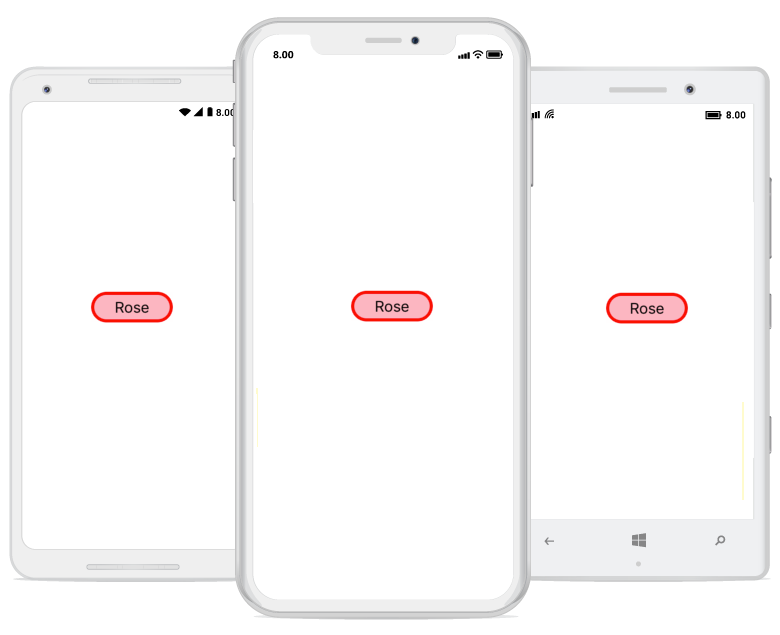
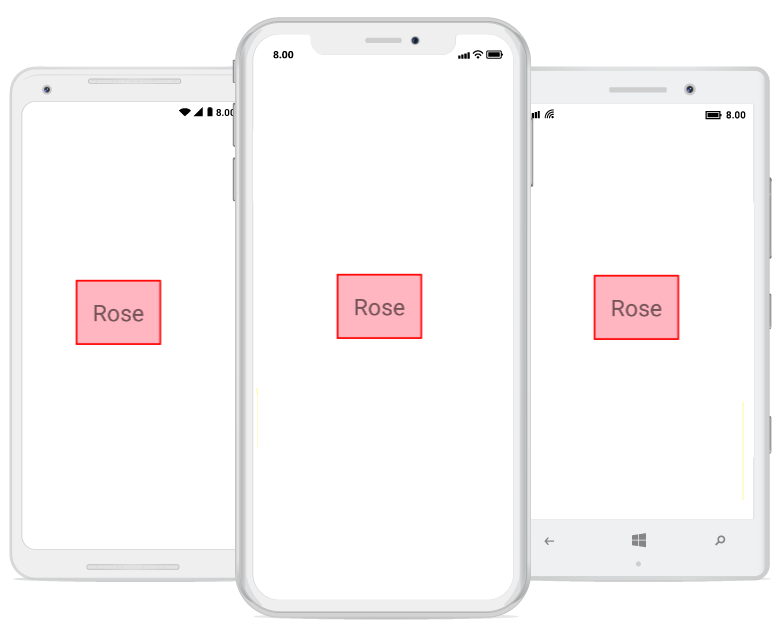
Moved the border control UG to development

Changed region(s): [[0.0923, 0.4189, 0.2462, 0.5685], [0.7385, 0.4189, 0.8923, 0.5386], [0.4308, 0.4189, 0.5538, 0.5386]]

diff --git a/Xamarin/SfBorder/Getting-started.md b/Xamarin/SfBorder/Getting-started.md
@@ -11,42 +11,20 @@ documentation: ug
 
 This section provides an overview for working with the SfBorder control for Xamarin.Forms and explains the entire process of creating a real-world application.
 
-## Assembly deployment
-
-After installing Essential Studio for Xamarin.Forms, find all the required assemblies in the installation folders: {Syncfusion Essential Studio Installed location}\Essential Studio\{{ site.releaseversion }}\Xamarin\lib.
-
-E.g.: C:\Program Files (x86)\Syncfusion\Essential Studio\{{ site.releaseversion }}\Xamarin\lib.
-
-N> Assemblies can be found in an unzipped package location in Mac.
-
-## NuGet configuration
-
-To install the required NuGet for the SfBorder control in an application, configure the NuGet packages of Syncfusion components.
-
-Refer to the following KB to configure the NuGet packages of the Syncfusion components:
-
-[How to configure package source and install Syncfusion NuGet packages in an existing project?](https://www.syncfusion.com/kb/7441/how-to-configure-package-source-and-install-syncfusion-nuget-packages-in-an-existing-project)
-
-The following NuGet package should be installed to use the SfBorder control in an application.
-
-<table>
-<tr>
-<th> Project </th>
-<th> Required package </th>
-</tr>
-<tr>
-<td> Xamarin.Forms </td>
-<td> Syncfusion.Xamarin.Core</td>
-</tr>
-</table>
-
 ### Adding SfBorder reference
 
-Syncfusion components for Xamarin.Forms are available in [nuget.org](https://www.nuget.org/). To add SfBorder to your project, open the NuGet package manager in Visual Studio, search for [Syncfusion.Xamarin.Core](https://www.nuget.org/packages/Syncfusion.Xamarin.Core/), and then install it.
+Syncfusion components for Xamarin.Forms are available in [nuget.org](https://www.nuget.org). To add the text input layout control to your project, open the NuGet package manager in Visual Studio, search for [Syncfusion.Xamarin.Core](https://www.nuget.org/packages/Syncfusion.Xamarin.Core), and then install it.
 
-To know more about obtaining our components, refer to these links for [Mac](https://help.syncfusion.com/xamarin/introduction/download-and-installation/mac) and [Windows](https://help.syncfusion.com/xamarin/introduction/download-and-installation/windows). If you prefer to manually refer the assemblies instead of NuGet, refer to this [documentation](https://help.syncfusion.com/xamarin/introduction/control-dependencies#sfborder) to know about the dependent assemblies required for adding for SfBorder.
+![Xamarin Forms SfBorder Nuget reference](images/Xamarin_Forms_Border_Nuget.png)
 
-## Launching SfBorder on each platform
+To learn more about obtaining our components, refer to these links for [Mac](https://help.syncfusion.com/xamarin/introduction/download-and-installation/mac) and [Windows](https://help.syncfusion.com/xamarin/introduction/download-and-installation/windows).
+
+
+N> Install the same version of the core NuGet in all the projects. The text input layout control will be available in core NuGet from v16.3.0.x onwards.
+
+I> From v16.2.0.x, you have to include a license key in your project if you reference Syncfusion assemblies from the trial setup or NuGet feed. Please refer to this [documentation](https://help.syncfusion.com/common/essential-studio/licensing/license-key) to learn about registering Syncfusion license key in your Xamarin applications and using our components.
+
+## Launching an application on each platform with SfBorder.
 
 To use the SfBorder control inside an application, each platform application must initialize the SfBorder renderer. This initialization step varies from platform to platform and is discussed in the following sections:
 
@@ -108,40 +86,46 @@ protected override void OnLaunched(LaunchActivatedEventArgs e)
 
 {% endhighlight %}
 
-## Creating a project
+## Creating SfBorder control
 
-Create a new BlankApp (Xamarin.Forms.Portable) application in Xamarin Studio or Visual Studio for Xamarin.Forms.
+The `SfBorder` control is configured entirely in C# code or in XAML markup. The following steps explain how to create a `SfBorder` and configure its elements.
 
-1. Add the required assembly references to the pcl and renderer projects as discussed in the [Assembly deployment](#assembly-deployment) section.
+### Adding namespace for referred assemblies
 
-2. Import the SfBorder control namespace as `xmlns:border="clr-namespace:Syncfusion.XForms.Border;assembly=Syncfusion.Core.XForms"` in XAML page.
+{% tabs %} 
 
-3. Set the SfBorder control as content to the ContentPage.
+{% highlight xaml %} 
+
+xmlns:border="clr-namespace:Syncfusion.XForms.Border;assembly=Syncfusion.Core.XForms" 
+
+{% endhighlight %}
+
+{% highlight C# %} 
+
+using Syncfusion.XForms.Border; 
+
+{% endhighlight %}
+
+{% endtabs %}
+
+### Add the SfBorder control as the content of ContentPage.
 
 {% tabs %}
 {% highlight xaml %}
 
-<StackLayout>     
 <Grid>
-<Grid.RowDefinitions>
-<RowDefinition Height="70"/>
-</Grid.RowDefinitions>
-<border:SfBorder x:Name="border" Grid.Row="0" WidthRequest="80"
- HeightRequest="30"
- CornerRadius="20"
- VerticalOptions="Start"
- HorizontalOptions="Center"
- BorderColor="Red"
- BorderWidth="3">
-<border:SfBorder.Content>
-<Label Text="Rose" 
- TextColor="Black" BackgroundColor="#ffb6c1"
- Font="15" WidthRequest="80" HeightRequest="30" VerticalOptions="Center"
- HorizontalOptions="Center" HorizontalTextAlignment="Center" VerticalTextAlignment="Center"/>
-</border:SfBorder.Content>
+<border:SfBorder 
+   BorderColor="Red"
+   BackgroundColor="#ffb6c1" 
+   HorizontalOptions="Center" 
+   VerticalOptions="Center"
+   BorderWidth="3">
+<Label 
+  Text="Rose" 
+  Margin="10" 
+  Font="15"  />
 </border:SfBorder>
 </Grid>
-</StackLayout>
 
 {% endhighlight %}
 {% highlight c# %}
@@ -157,34 +141,23 @@ namespace BorderGettingStarted
         public MainPage()
         {
             InitializeComponent();
-            StackLayout stack = new StackLayout();
-            Grid mainGrid = new Grid();
-            RowDefinition firstRow = new RowDefinition();
-            firstRow.Height = 70;
-            mainGrid.RowDefinitions.Add(firstRow);
             
+            Grid mainGrid = new Grid();
+            
+			// Create Border control
             SfBorder border = new SfBorder();
-            border.HeightRequest = 30;
-            border.CornerRadius = 20;
-            border.VerticalOptions = LayoutOptions.Start;
+            border.VerticalOptions = LayoutOptions.Center;
             border.HorizontalOptions = LayoutOptions.Center;
             border.BorderColor = Color.Red;
-            border.BorderWidth = 3;
-            Grid.SetRow(border, 0);
+			border.BackgroundColor = Color.FromHex("#ffb6c1");
+			
+			//Create Label control
             Label label = new Label();
             label.Text = "Rose";
-            label.TextColor = Color.Black;
-            label.BackgroundColor = Color.FromHex("#ffb6c1");
             label.FontSize = 15;
-            label.WidthRequest = 80;
-            label.HeightRequest = 30;
-            label.VerticalOptions = LayoutOptions.Center;
-            label.HorizontalOptions = LayoutOptions.Center;
-            label.HorizontalTextAlignment = TextAlignment.Center;
-            label.VerticalTextAlignment = TextAlignment.Center;
+            
             border.Content = label;
             mainGrid.Children.Add(border);
-            stack.Children.Add(mainGrid);
             this.Content = stack;
         }
     }

diff --git a/Xamarin/SfBorder/Customization.md b/Xamarin/SfBorder/Customization.md
@@ -18,13 +18,23 @@ You can customize the color of the border using the `BorderColor` property.
 {% tabs %}
 {% highlight xaml %}
 
-<border:SfBorder x:Name="border" BorderColor = "Red"/>
+<border:SfBorder x:Name="border" BorderColor = "Red"  CornerRadius="20" BorderWidth="3">
+ <Label Text="James Williamson" 
+ TextColor="Black"/>
+</border:SfBorder>
 
 {% endhighlight %}
 {% highlight c# %}
 
 SfBorder border = new SfBorder();
+border.CornerRadius = 20;
 border.BorderColor = Color.Red;
+border.BorderWidth = 3;
+Label label = new Label();
+label.Text = "James Williamson";
+label.TextColor = Color.Black;
+border.Content = label;
+this.Content = border;
 
 {% endhighlight %}
 {% endtabs %}
@@ -38,13 +48,24 @@ The background color of the border control can be customized using the `Backgrou
 {% tabs %}
 {% highlight xaml %}
 
-<border:SfBorder x:Name="border" BackgroundColor = "Green"/>
+<border:SfBorder x:Name="border" BorderColor = "Red" BackgroundColor= "Green" CornerRadius="20" BorderWidth="3">
+ <Label Text="James Williamson" 
+ TextColor="Black"/>
+</border:SfBorder>
 
 {% endhighlight %}
 {% highlight c# %}
 
 SfBorder border = new SfBorder();
+border.CornerRadius = 20;
+border.BorderColor = Color.Red;
+border.BorderWidth = 3;
+Label label = new Label();
+label.Text = "James Williamson";
+label.TextColor = Color.Black;
+border.Content = label;
 border.BackgroundColor = Color.Green;
+this.Content = border;
 
 {% endhighlight %}
 {% endtabs %}
@@ -58,13 +79,24 @@ You can customize the thickness of the border using the `BorderWidth` property.
 {% tabs %}
 {% highlight xaml %}
 
-<border:SfBorder x:Name="border" BorderWidth = "12"/>
+<border:SfBorder x:Name="border" BorderColor = "Red" CornerRadius="20" BorderWidth="12">
+ <Label Text="James Williamson" 
+ TextColor="Black"/>
+</border:SfBorder>
 
 {% endhighlight %}
 {% highlight c# %}
 
 SfBorder border = new SfBorder();
+border.CornerRadius = 20;
+border.BorderColor = Color.Red;
 border.BorderWidth = 12;
+Label label = new Label();
+label.Text = "James Williamson";
+label.TextColor = Color.Black;
+border.Content = label;
+this.Content = border;
+
 
 {% endhighlight %}
 {% endtabs %}
@@ -78,13 +110,23 @@ You can customize the corner radius of the border on four sides using the `Corne
 {% tabs %}
 {% highlight xaml %}
 
-<border:SfBorder x:Name="border" CornerRadius="0,10,10,0"/>
+<border:SfBorder x:Name="border" BorderColor = "Red" CornerRadius="0,10,10,0" BorderWidth="12">
+ <Label Text="James Williamson" 
+ TextColor="Black"/>
+</border:SfBorder>
 
 {% endhighlight %}
 {% highlight c# %}
 
 SfBorder border = new SfBorder();
 border.CornerRadius =  new Thickness (0,10,10,0);
+border.BorderColor = Color.Red;
+border.BorderWidth = 12;
+Label label = new Label();
+label.Text = "James Williamson";
+label.TextColor = Color.Black;
+border.Content = label;
+this.Content = border;
 
 {% endhighlight %}
 {% endtabs %}

diff --git a/Xamarin/SfBorder/Overview.md b/Xamarin/SfBorder/Overview.md
@@ -9,9 +9,7 @@ documentation : ug
 
 # Overview
 
-The new Border control is a container control that allows you to apply borders, backgrounds, border widths, and corner radii.
-
-![border](images/Xamarin_Forms_Overview.png)
+The Xamarin.Forms Border control is a container control that allows you to apply borders, backgrounds, border width, and corner radii
 
 ## Key Features
 
@@ -20,3 +18,5 @@ The new Border control is a container control that allows you to apply borders, 
 * Implement a circular image.
 
 * Customize all the edges with different corner radii.
+
+![border](images/Xamarin_Forms_Overview.png)
